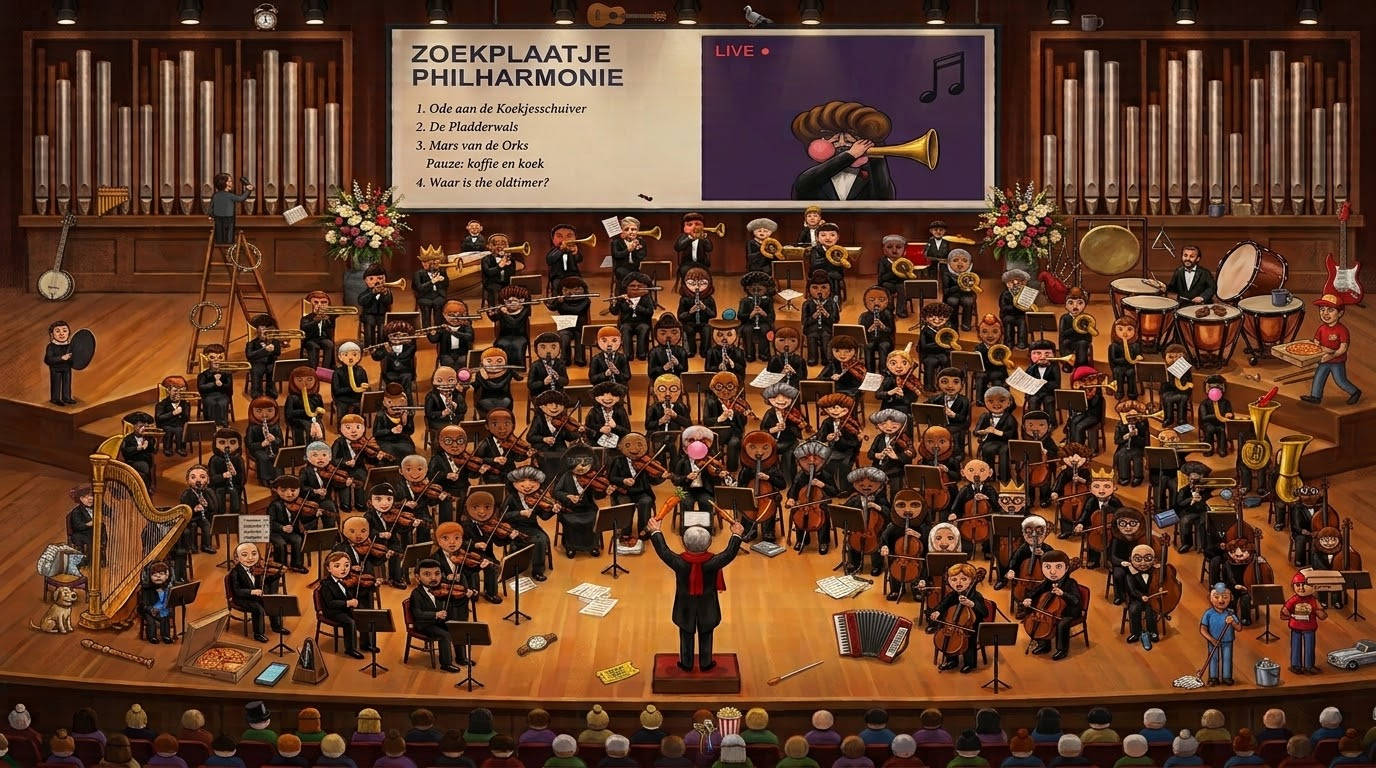
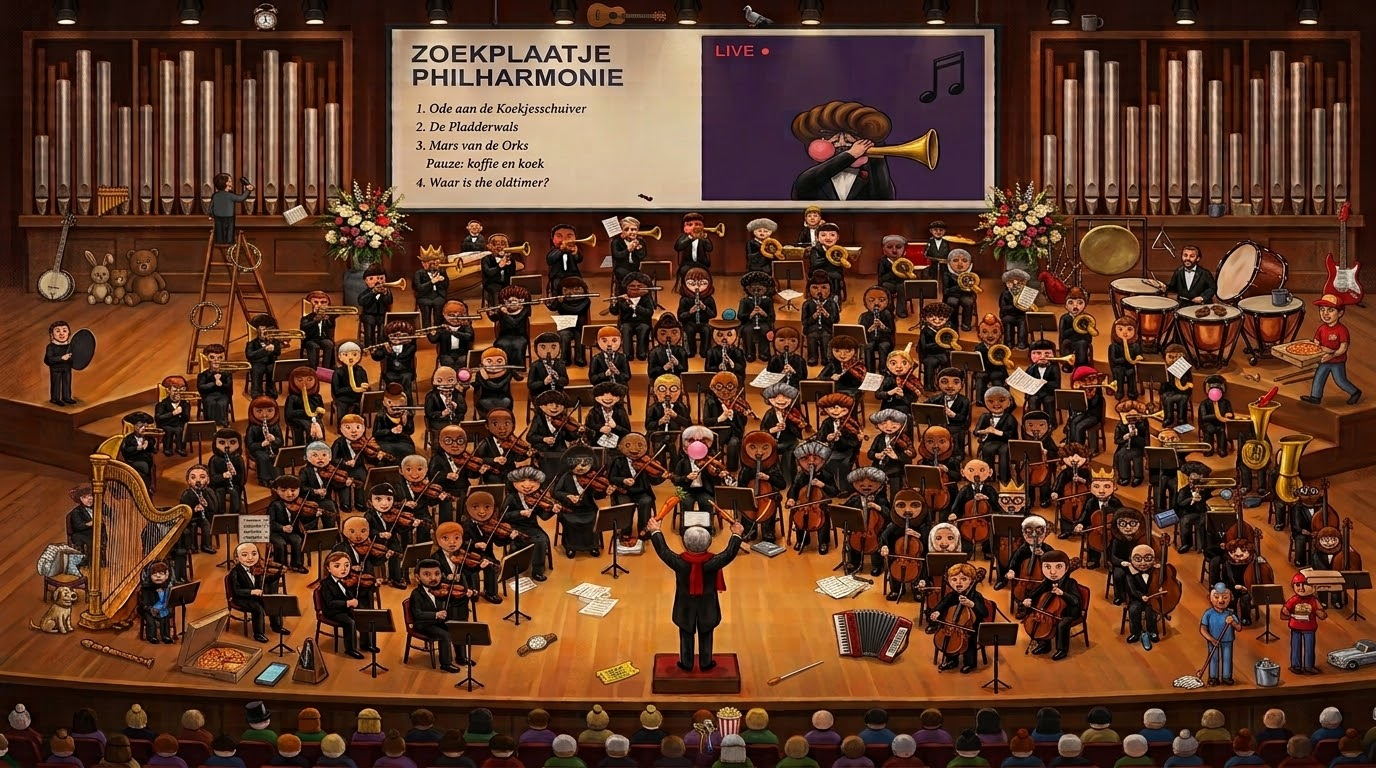
Zoekplaatje: nieuwe versie van het orkest met knuffelkonijn en teddybeer (33 voorwerpen)
Claude-Session: https://claude.ai/code/session_016yiCbYbiJxj3wDkRW1beUn

Changed region(s): [[0.0625, 0.3125, 0.125, 0.4062], [0.7188, 0.25, 0.75, 0.3125], [0.25, 0.25, 0.2812, 0.2812]]

diff --git a/zoekplaatje.html b/zoekplaatje.html
@@ -404,7 +404,7 @@ const ORKEST_BEELD = [
   ['Mobieltje', 252, 659, 292, 688], ['Metronoom', 290, 634, 332, 686], ['Horloge', 513, 629, 559, 658], ['Toegangskaartje', 593, 659, 642, 686],
   ['Hoge hoed', 243, 697, 274, 726], ['Wortel', 648, 484, 684, 536], ['Accordeon', 831, 607, 915, 664], ['Dirigeerstokje', 763, 657, 825, 688],
   ['Popcorn', 713, 704, 745, 739], ['Vergrootglas', 1215, 483, 1239, 505], ['Emmer', 1251, 654, 1282, 688], ['Dweil', 1168, 672, 1208, 692],
-  ['Boek', 748, 539, 787, 559],
+  ['Boek', 748, 539, 787, 559], ['Knuffelkonijn', 84, 250, 111, 303], ['Teddybeer', 125, 250, 171, 305],
 ];
 const OW = 2000, OH = 1300;
 function rng(zaad) { return () => { zaad |= 0; zaad = zaad + 0x6D2B79F5 | 0; let t = Math.imul(zaad ^ zaad >>> 15, 1 | zaad); t = t + Math.imul(t ^ t >>> 7, 61 | t) ^ t; return ((t ^ t >>> 14) >>> 0) / 4294967296; }; }

diff --git a/CLAUDE.md b/CLAUDE.md
@@ -107,7 +107,7 @@ bedenk dat de site openbaar is.
   Een level kan ook een plaatje zijn (bijv. gemaakt met Gemini): `beeld: 'zoek/<naam>.jpg'` in plaats van achter/voor, voorwerpen als
   [naam, x1, y1, x2, y2, (meer vakjes)] in pixels van het plaatje, `auto` = vakje [x1, y1, x2, y2] van de oldtimer in het plaatje; het plaatje wordt
   geladen bij het starten (`L.img`), de vakjes bovenin tonen een uitsnede uit het plaatje en gevonden voorwerpen krijgen een groen rondje.
-  Gemini-plaatjes staan in `zoek/`. Level 3 Het orkest gebruikt nu `zoek/orkest.jpg` (Gemini, 1376x768) met `ORKEST_BEELD` (31 voorwerpen); de
+  Gemini-plaatjes staan in `zoek/`. Level 3 Het orkest gebruikt nu `zoek/orkest.jpg` (Gemini, 1376x768) met `ORKEST_BEELD` (33 voorwerpen); de
   getekende versie (`orkestAchter`, `ORKEST`) staat als reserve in een commentaarregel in `LEVELS`. `orkest-gemini.jpg` is een eerdere versie.
   Vakjes nalopen: geen twee voorwerpen mogen elkaars midden raken, en voorwerpen die vaker voorkomen (koffiemok, tamboerijn, pizza) krijgen meer vakjes.
   In elk level staat de zilveren oldtimer (eigen ontwerp zonder merk; geen Lucky Luke of Mercedes-logo, dat is beschermd):
